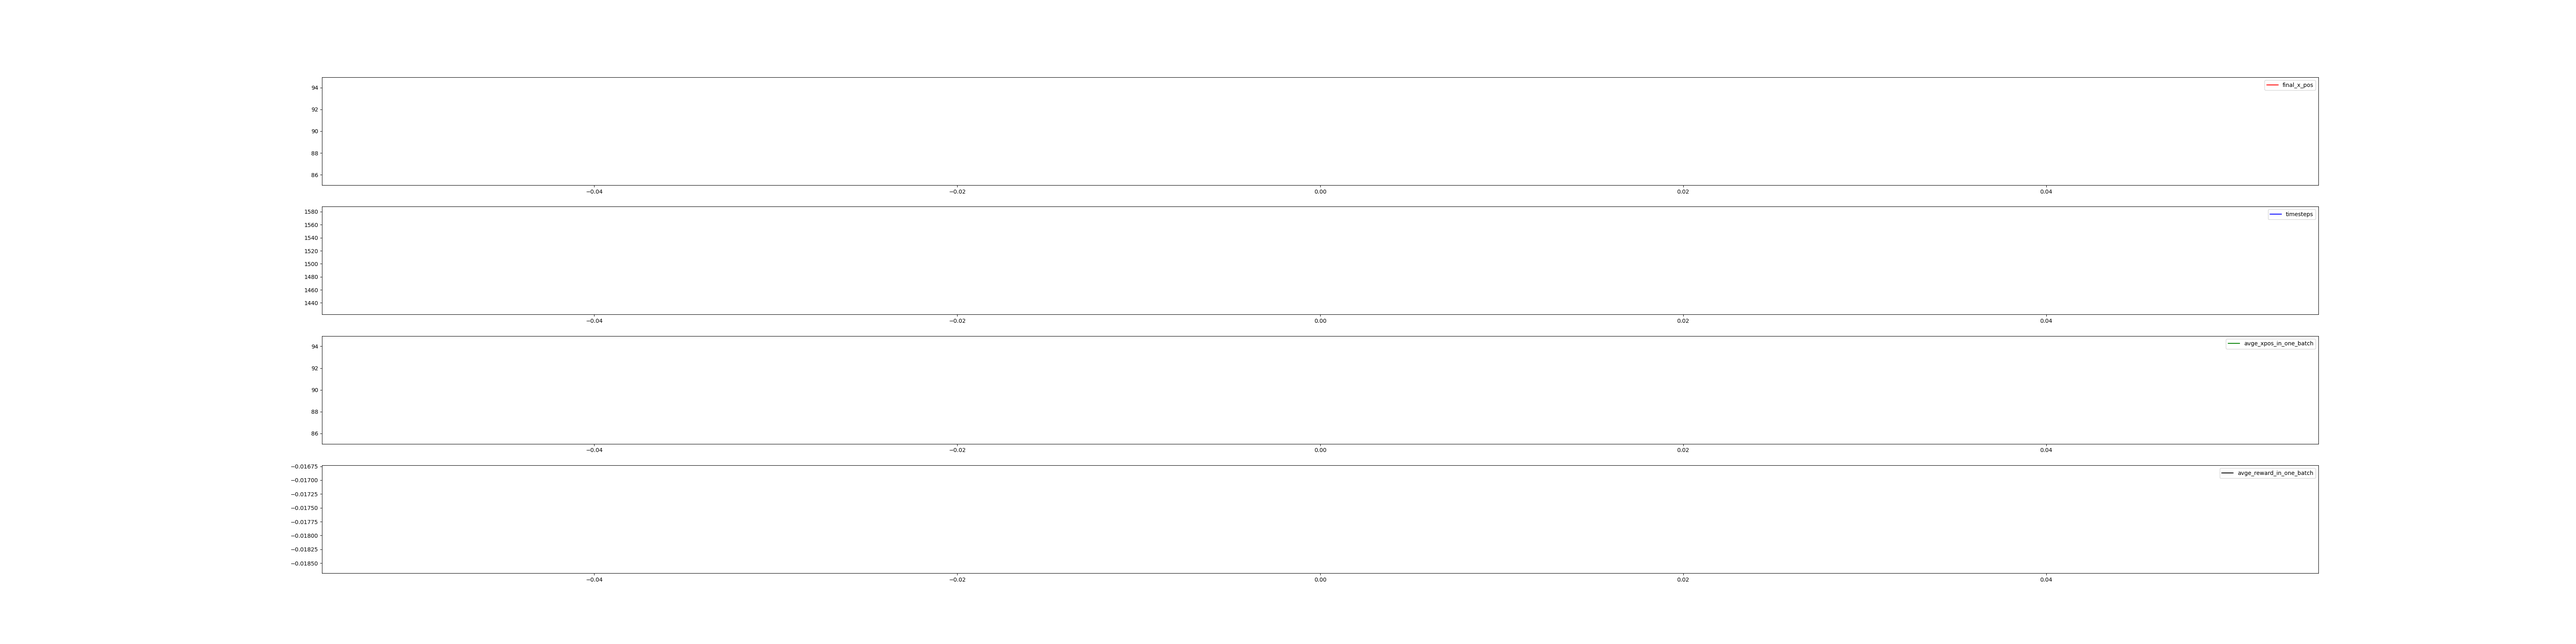
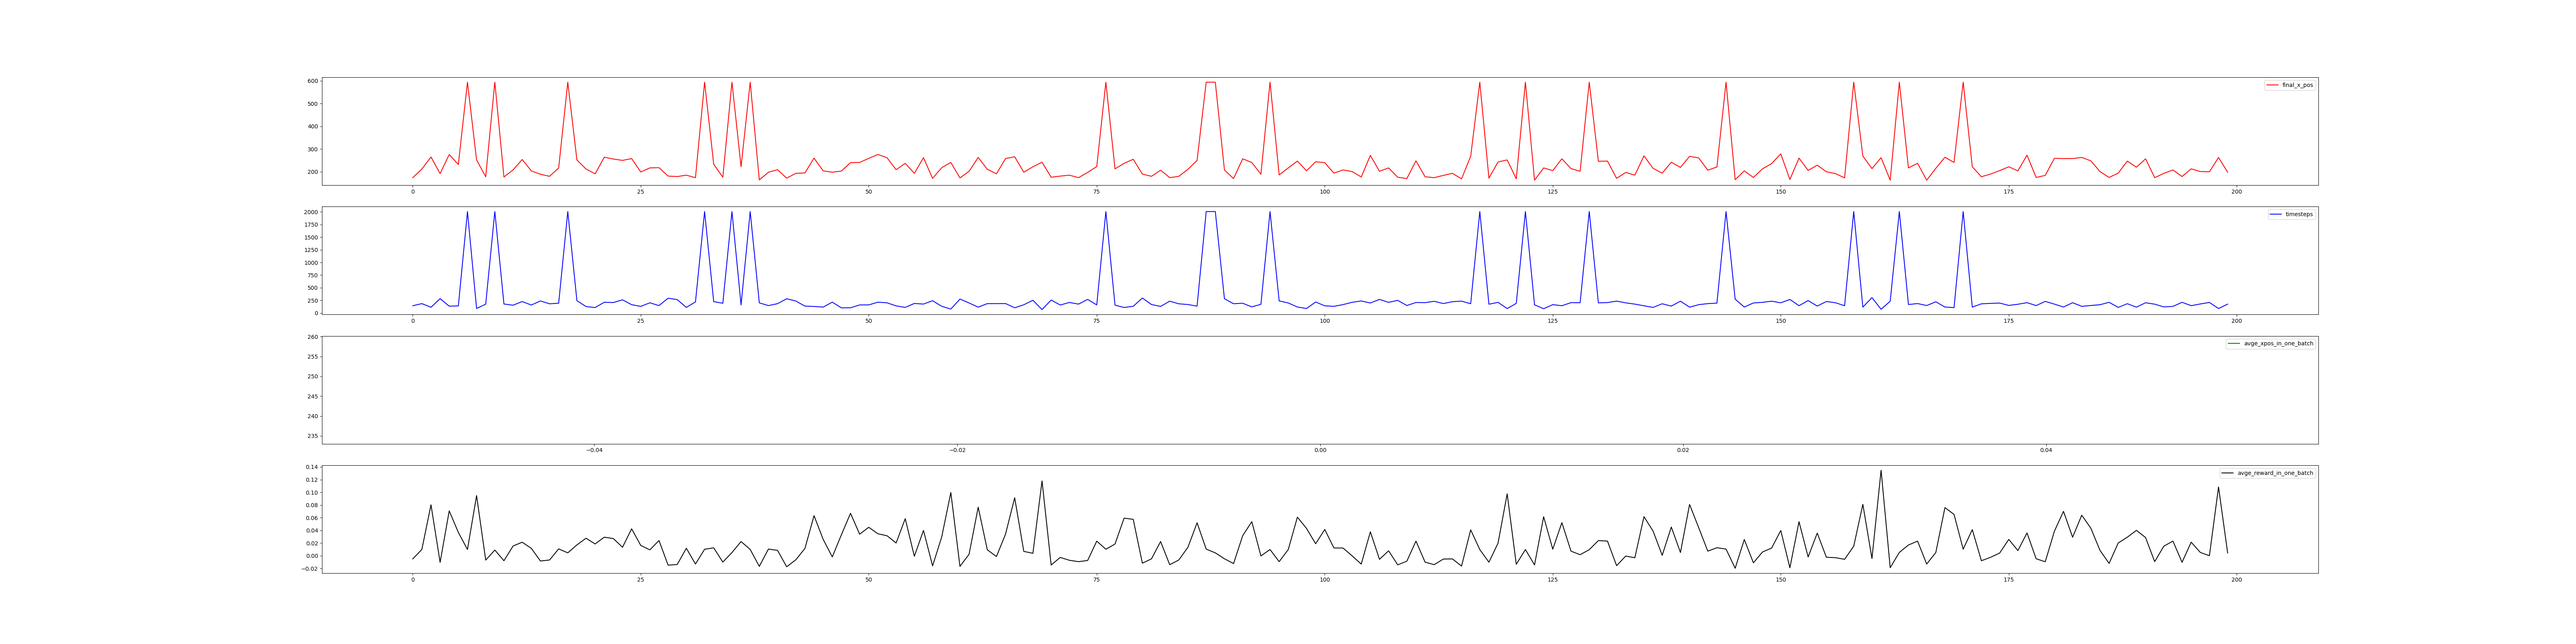
1

diff --git a/ppo_mario.py b/ppo_mario.py
@@ -18,12 +18,11 @@ import time
 
 # Model Param
 CHECK_FREQ_NUMB = 10000 #每训练多少帧保存一次模型
-TOTAL_TIMESTEP_NUMB = 500000 #总训练帧数
 N_STEPS = 512 # Number of steps to collect to train on
 EPISODE_NUMBERS = 20
 MAX_TIMESTEP_TEST = 1000
 
-
+BATCH_TIMESTEP_NUMB = 6000 #
 LEARNING_RATE = 0.00001 #学习率
 # GAE = 1.0   # 控制优势估计的偏差和方差
 ENT_COEF = 0.01 # Entropy Coefficient
@@ -33,13 +32,9 @@ GAMMA = 0.9#单帧奖励计算折扣
 EPSILON = 0.1 # 裁剪范围
 EPOCHS = 10000 # Number of Epochs
 if sys.platform.startswith('linux'):
-    N_EPOCHS=15 #训练完一个batch后再迭代跟新的次数
-    BATCH_SIZE= 100
+    BATCH_SIZE= 50
 else:
-    N_EPOCHS=5
-    BATCH_SIZE = 200 #一个batch内游戏次数
-ic(BATCH_SIZE,N_EPOCHS)
-WARM_UP=1 #在训练初期, 非常容易死, 导致单次帧很少, 此时加大batch_size.
+    N_EPOCHS=20
 
 ic() 
 
@@ -70,7 +65,7 @@ final_x_pos_list=[]
 timesteps_list=[]
 avge_final_xpos_in_one_batch=[]
 avge_reward_in_one_batch=[]
-def get_batchs_data(env,batch_size=BATCH_SIZE):
+def get_batchs_data(env,batch_timestep_numb):
     '''
     一次从头到尾跑完一趟游戏, 多趟组成一个batchs
     '''
@@ -79,7 +74,8 @@ def get_batchs_data(env,batch_size=BATCH_SIZE):
     final_state=None
     batch_final_x_pos=[]
     # barch_rew=[]
-    for i in range(batch_size):
+    cur_timesteps=0
+    while True:
         state = env.custom_reset()
         info= env.info
         done=False
@@ -109,12 +105,21 @@ def get_batchs_data(env,batch_size=BATCH_SIZE):
             rewards.append(reward)
             ep_rews.append(reward)
             timesteps.append(1)
+            cur_timesteps+=1
+            
+            if cur_timesteps>=batch_timestep_numb:
+                break
+            
         batch_final_x_pos.append(info['x_pos'])
         # ic(len(timesteps))
         timesteps_list.append(len(timesteps))
         batch_lens.append(len(timesteps))
         batch_rews.append(ep_rews)
         avge_reward_in_one_batch.append(np.mean(ep_rews))
+        
+        if cur_timesteps>=batch_timestep_numb:
+            break
+        
     final_x_pos_list+=batch_final_x_pos
     avge_final_xpos_in_one_batch.append(np.mean(batch_final_x_pos))
     batch_rtgs=[]
@@ -149,15 +154,11 @@ def get_batchs_data(env,batch_size=BATCH_SIZE):
     
     return batch_obs, batch_acts, batch_log_probs,batch_rtgs, rewards, batch_lens,batch_vals,dones
       
-def train(batch_size=BATCH_SIZE):
+def train(batch_timestep_numb=BATCH_TIMESTEP_NUMB):
     state = env.custom_reset()
-    warm_up=WARM_UP
     for epoch in range(EPOCHS):
         print(f'epoch:{epoch}')
-        if warm_up>=1:
-            batch_size=BATCH_SIZE*warm_up
-            warm_up-=1
-        batch_obs, batch_acts, batch_log_probs,batch_rtgs, rewards, batch_lens,batch_vals,dones=get_batchs_data(env,batch_size=batch_size)
+        batch_obs, batch_acts, batch_log_probs,batch_rtgs, rewards, batch_lens,batch_vals,dones=get_batchs_data(env,batch_timestep_numb)
         # ic(batch_obs.shape,batch_acts.shape,batch_log_probs.shape,batch_rtgs.shape,batch_vals.shape,len(rewards),len(batch_lens),len(dones))
         # l,r=100,120
         # print(batch_acts[l:r])
@@ -203,6 +204,7 @@ def train(batch_size=BATCH_SIZE):
         
 
 if __name__ == '__main__':
+    train()
     fire.Fire()
 
 
